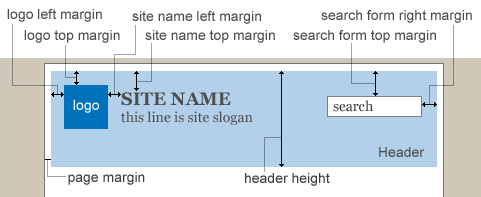
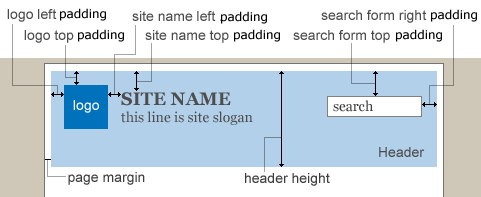
Adding button to search form. Corrected settings UI references to margin.

diff --git a/css/style.css b/css/style.css
@@ -490,27 +490,39 @@ div.tabs ul.secondary li {
   margin: 0px;
   padding: 5px;
 }
-
+/* =============================================================================
+   SEARCH
+   ========================================================================== */
 /**
- * Search block form
+ * Header searchbox form
  * - no 'submit' button
  * - add search magnifier image
  * - use javascript to show prompt
  */
-.form-item-search-block-form .form-text:focus {
-  /*outline: none; */  /* remove blue outline for Safari */
-}
+ #header-searchbox form div {
+   display: inline;
+ }
+ /* text field header search */
 .form-item-search-block-form .form-text {
-  height: 24px;
-  color: #555555;
-  margin: 0px;
-  border: solid 1px #aaa;
-  border-bottom-color: #ddd;
-  border-right-color: #ddd;
-  margin-top: 1px;
-  background: #fff url(../images/search.png) no-repeat 2px center;
-  padding: 0px 4px 0px 4px;
-  padding-left: 24px; /* space for magnifying glass */
+  border: 1px solid #ccc;
+  border-right: none;
+  float: left; /* LTR */
+  height: 14px;
+  padding: 6px;
+  color: #4e4e4e;
+  background-color: #FAFAFA;
+}
+/* submit button */
+#header-searchbox form input.form-submit {
+  border:none;
+  width:31px;
+  height:26px;
+  border: 1px solid #ccc;
+  border-left: 0;
+  text-indent:-9999px;
+  margin:0;
+  background: none;
+  padding: 0;
 }
 #header .form-item-search-block-form {
   float: right;
@@ -520,7 +532,57 @@ div.tabs ul.secondary li {
   float: right;
   overflow: hidden;
 }
+/*#header-searchbox .form-submit:hover,
+#header-searchbox .form-submit:focus,
+#header-searchbox .form-submit:active {
+  cursor: pointer;
+}*/
 
+/*
+ *  Search block form
+ *  - submit replaced by magnify image.
+ *  - says 'search this site'
+ */
+
+#block-search-form .block .inner .content {
+  padding-top: 0;
+}
+
+/* text field search block */
+.block-search .form-item input.form-search,
+.white_bg .region-header .block-search .form-item input.form-search,
+.white_bg #navigation .block-search .form-item input.form-search {
+  border: 1px solid #ccc;
+  border-right: none;
+  float: left; /* LTR */
+  height: 14px;
+  padding: 6px;
+  color: #4e4e4e;
+  background-color: #FAFAFA;
+}
+/* submit button */
+.block-search form input.form-submit {
+  border:none;
+  width:31px;
+  height:26px;
+  border: 1px solid #ccc;
+  border-left: 0;
+  text-indent:-9999px;
+  margin:0;
+  background: none;
+  padding: 0;
+}
+
+/*.block-search .form-submit:hover,
+.block-search .form-submit:focus,
+.block-search .form-submit:active {
+  cursor: pointer;
+}*/
+
+/*#search-block-form input[type="submit"] {
+  -ms-filter: "progid:DXImageTransform.Microsoft.gradient(enabled=false)";
+}*/
+/************************/
 /**
  * Form
  */

diff --git a/theme-settings.php b/theme-settings.php
@@ -231,53 +231,53 @@ function mayo_form_system_theme_settings_alter(&$form, &$form_state) {
     '#maxlength' => 8,
     '#description' => t('Specify the header border width in px. Note that header border is not drawn when you use header background image or when you use layout style 2.'),
   );
-  $form['adv_header']['logo_left_margin'] = array(
+  $form['adv_header']['logo_left_padding'] = array(
     '#type' => 'textfield',
-    '#title' => t('Logo left margin'),
-    '#default_value' => theme_get_setting('logo_left_margin'),
+    '#title' => t('Logo left padding'),
+    '#default_value' => theme_get_setting('logo_left_padding'),
     '#size' => 12,
     '#maxlength' => 8,
-    '#description' => t('Specify the left margin of the logo in px. This setting is used only when the logo option is enabled.'),
+    '#description' => t('Specify the left padding of the logo in px. This setting is used only when the logo option is enabled.'),
   );
-  $form['adv_header']['logo_top_margin'] = array(
+  $form['adv_header']['logo_top_padding'] = array(
     '#type' => 'textfield',
-    '#title' => t('Logo top margin'),
-    '#default_value' => theme_get_setting('logo_top_margin'),
+    '#title' => t('Logo top padding'),
+    '#default_value' => theme_get_setting('logo_top_padding'),
     '#size' => 12,
     '#maxlength' => 8,
-    '#description' => t('Specify the top margin of the logo in px. This setting is used only when the logo option is enabled.'),
+    '#description' => t('Specify the top padding of the logo in px. This setting is used only when the logo option is enabled.'),
   );
-  $form['adv_header']['sitename_left_margin'] = array(
+  $form['adv_header']['sitename_left_padding'] = array(
     '#type' => 'textfield',
-    '#title' => t('Site name left margin'),
-    '#default_value' => theme_get_setting('sitename_left_margin'),
+    '#title' => t('Site name left padding'),
+    '#default_value' => theme_get_setting('sitename_left_padding'),
     '#size' => 12,
     '#maxlength' => 8,
-    '#description' => t('Specify the left margin of the site name in px. This setting is used only when the sitename option is enabled.'),
+    '#description' => t('Specify the left padding of the site name in px. This setting is used only when the sitename option is enabled.'),
   );
-  $form['adv_header']['sitename_top_margin'] = array(
+  $form['adv_header']['sitename_top_padding'] = array(
     '#type' => 'textfield',
-    '#title' => t('Site name top margin'),
-    '#default_value' => theme_get_setting('sitename_top_margin'),
+    '#title' => t('Site name top padding'),
+    '#default_value' => theme_get_setting('sitename_top_padding'),
     '#size' => 12,
     '#maxlength' => 8,
-    '#description' => t('Specify the top margin of the site name in px. This setting is used only when the sitename option is enabled.'),
+    '#description' => t('Specify the top padding of the site name in px. This setting is used only when the sitename option is enabled.'),
   );
-  $form['adv_header']['searchbox_right_margin'] = array(
+  $form['adv_header']['searchbox_right_padding'] = array(
     '#type' => 'textfield',
-    '#title' => t('Search form right margin'),
-    '#default_value' => theme_get_setting('searchbox_right_margin'),
+    '#title' => t('Search form right padding'),
+    '#default_value' => theme_get_setting('searchbox_right_padding'),
     '#size' => 12,
     '#maxlength' => 8,
-    '#description' => t('Specify the right margin of the search form in px. This setting is used only when the header search form option is enabled.'),
+    '#description' => t('Specify the right padding of the search form in px. This setting is used only when the header search form option is enabled.'),
   );
-  $form['adv_header']['searchbox_top_margin'] = array(
+  $form['adv_header']['searchbox_top_padding'] = array(
     '#type' => 'textfield',
-    '#title' => t('Search form top margin'),
-    '#default_value' => theme_get_setting('searchbox_top_margin'),
+    '#title' => t('Search form top padding'),
+    '#default_value' => theme_get_setting('searchbox_top_padding'),
     '#size' => 12,
     '#maxlength' => 8,
-    '#description' => t('Specify the right margin of the search form in px. This setting is used only when the header search form option is enabled.'),
+    '#description' => t('Specify the right padding of the search form in px. This setting is used only when the header search form option is enabled.'),
   );
   $form['adv_header']['searchbox_size'] = array(
     '#type' => 'textfield',

diff --git a/template.php b/template.php
@@ -151,7 +151,7 @@ function mayo_preprocess_search_block_form(&$variables) {
 
   unset($variables['form']['actions']['submit']);
   unset($variables['form']['actions']['#children']);
-
+  $variables['form']['actions']['submit'] = array('#type' => 'image_button', '#src' => base_path() . path_to_theme() . '/images/search-submit.png');
   $variables['form']['search_block_form']['#value'] = $prompt;
   $variables['form']['search_block_form']['#size'] = theme_get_setting('searchbox_size');
   $variables['form']['search_block_form']['#attributes'] = array(
